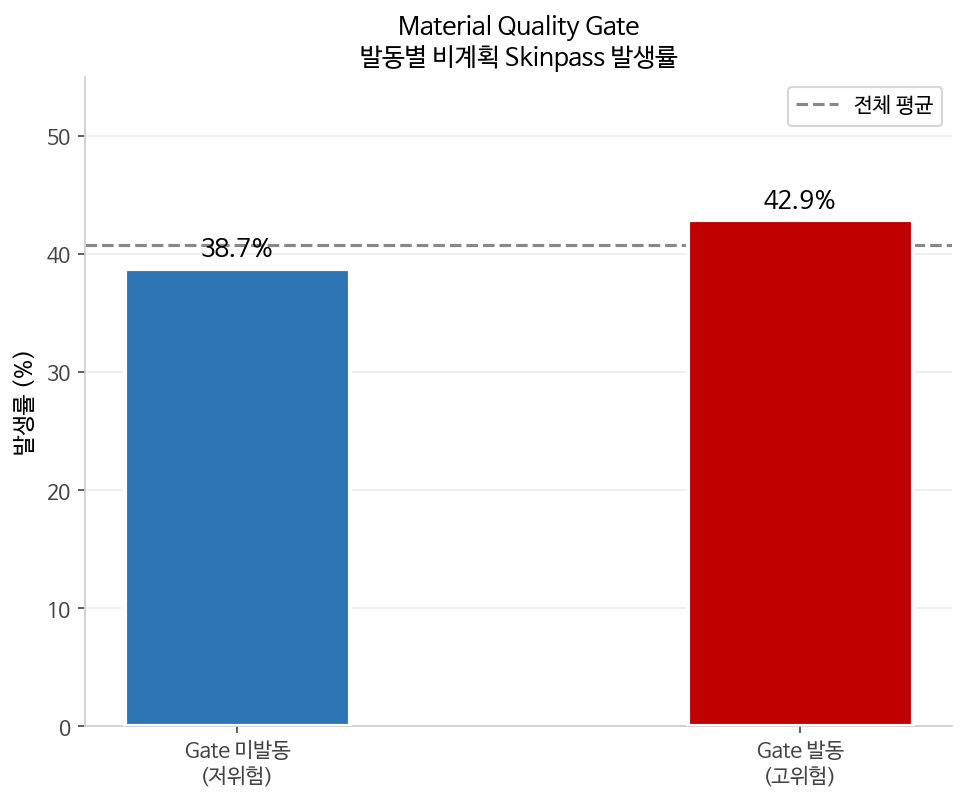
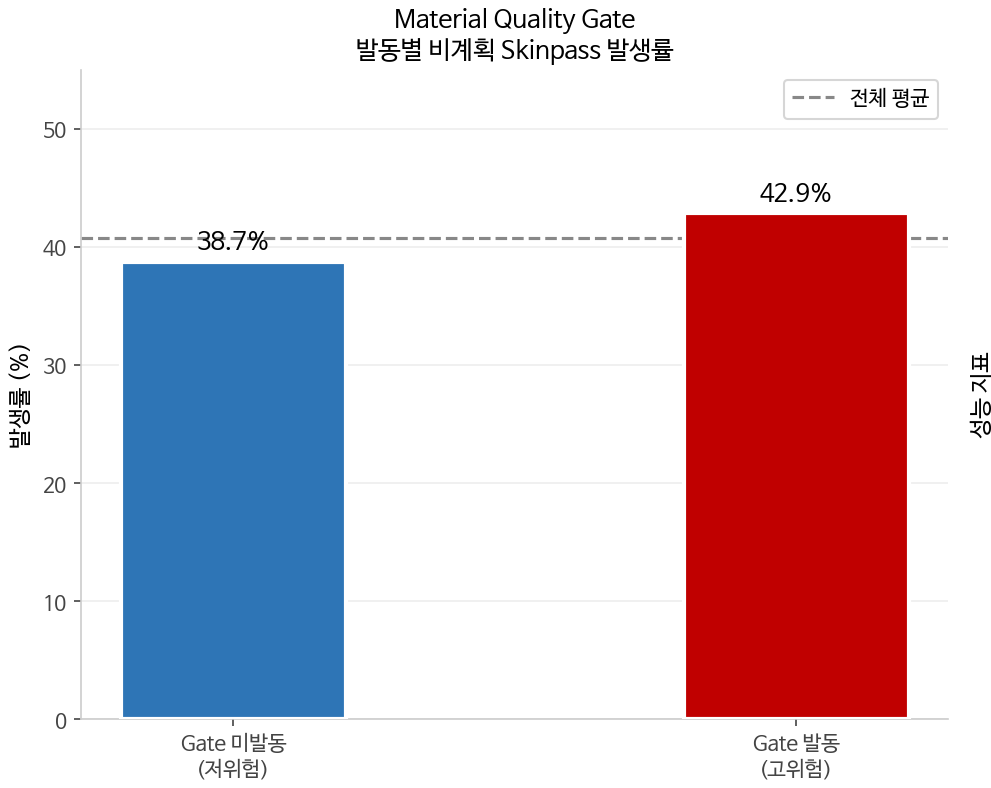
fix(Skinpass slide 05): image7 차트 경계 정확히 감지해 재분할, 여백 제거

diff --git a/Skinpass.html b/Skinpass.html
@@ -537,12 +537,12 @@
             <div style="display: flex; flex-direction: column; flex: 1; min-height: 0;">
               <div class="meta-cap" style="flex-shrink: 0; margin-bottom: 8px; font-size: 18px;">Gate 발동별 비계획 발생률</div>
               <img src="skinpass/img/image7_left.png" alt="Gate 발동별 비계획 발생률"
-                   style="width: 100%; flex: 1; min-height: 0; object-fit: cover; object-position: center center; border: 1px solid var(--rule);" />
+                   style="width: 100%; height: auto; display: block; border: 1px solid var(--rule);" />
             </div>
             <div style="display: flex; flex-direction: column; flex: 1; min-height: 0;">
               <div class="meta-cap" style="flex-shrink: 0; margin-bottom: 8px; font-size: 18px;">Recall–Precision 트레이드오프</div>
               <img src="skinpass/img/image7_right.png" alt="Recall-Precision 트레이드오프"
-                   style="width: 100%; flex: 1; min-height: 0; object-fit: cover; object-position: center center; border: 1px solid var(--rule);" />
+                   style="width: 100%; height: auto; display: block; border: 1px solid var(--rule);" />
             </div>
           </div>
         </div>
